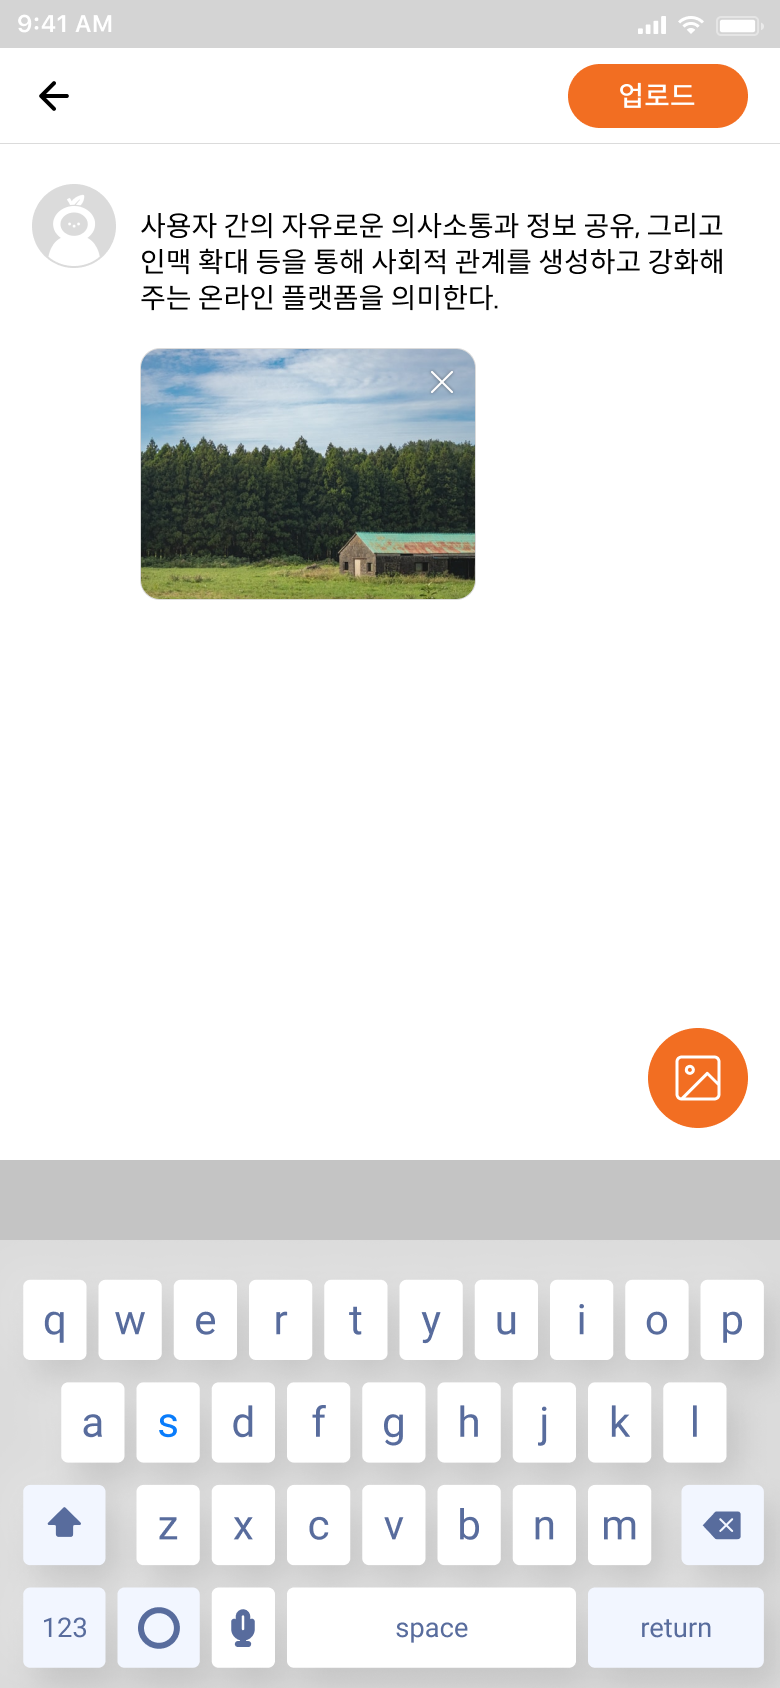
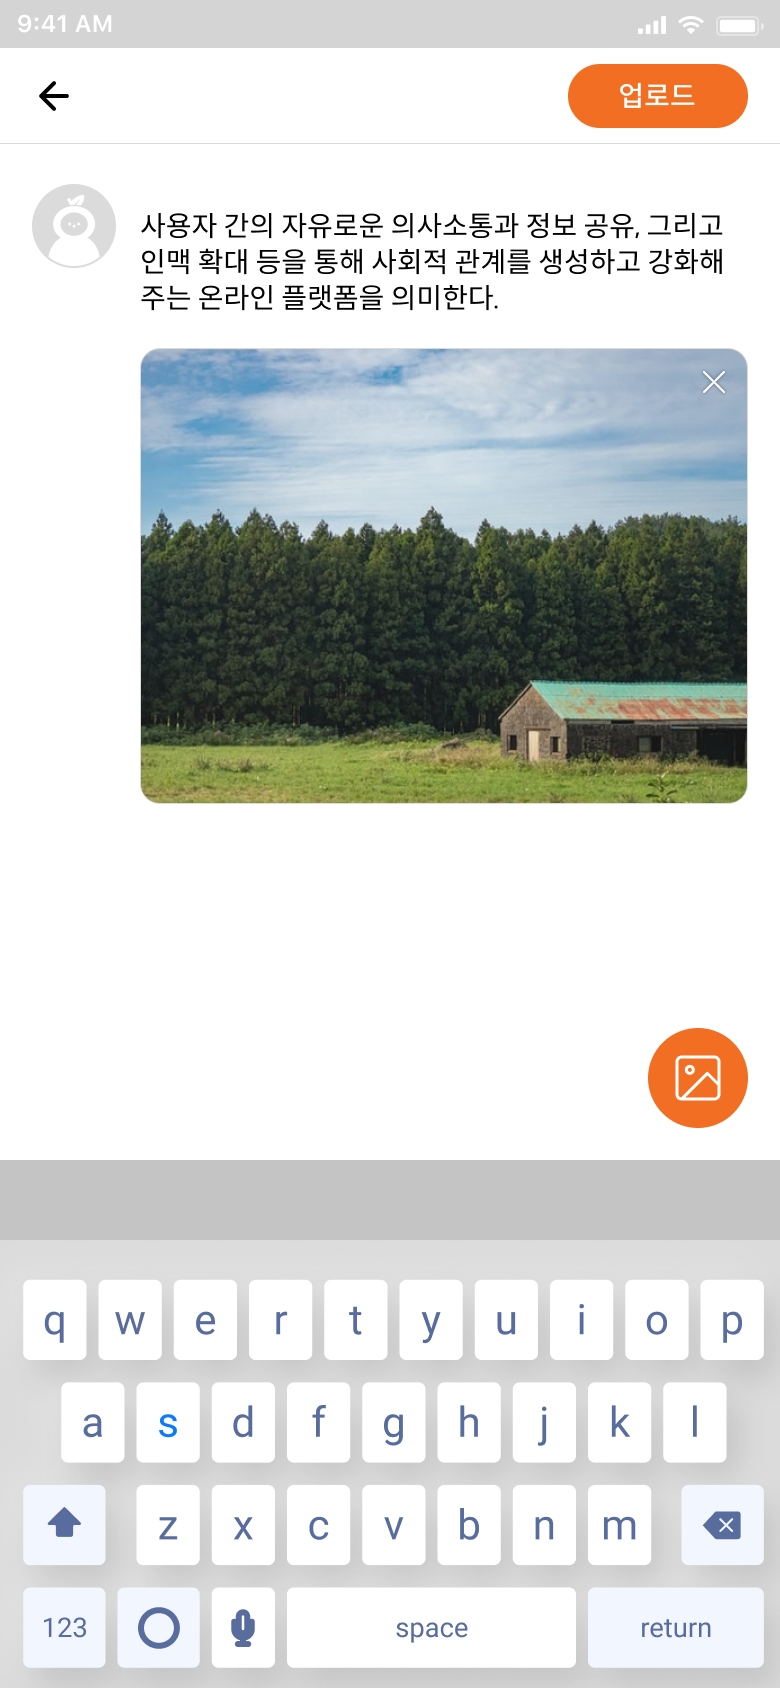
feat(post): 게시글 작성 페이지 style 및 (#13)
* 사진1장 업로드시 크게 보이도록 설정

* 게시글 텍스트 작성 크기를 유연하게 설정, 세로로 긴 게시글을 불러올 때 정상적으로 불러오도록 설정

* textarea에 맥스 높이 설정

* removeTarget state로 관리 사진 삭제 모달창 생성

* assets폴더 정리

Changed region(s): [[0.1538, 0.1848, 0.9846, 0.4929]]

diff --git a/src/pages/PostCreate/PostCreate.jsx b/src/pages/PostCreate/PostCreate.jsx
@@ -6,11 +6,14 @@ import { uploadImage } from '../../api/auth';
 import { useAuth } from '../../context/AuthContext';
 import { getImageUrl, DEFAULT_PROFILE_IMAGE } from '../../utils/format';
 import { useEffect } from 'react';
+import ImageUploadIcon from '../../assets/images/image_upload.svg';
+import AlertModal from '../../components/common/AlertModal';
 
 const Wrapper = styled.div`
   min-height: 100vh;
   background-color: ${({ theme }) => theme.colors.white};
   padding-bottom: 80px;
+  overflow-x: hidden;
 `;
 
 const PostHeader = styled.header`
@@ -35,14 +38,16 @@ const BackButton = styled.button`
 `;
 
 const UploadButton = styled.button`
-  background-color: ${({ disabled, theme }) => disabled ? theme.colors.gray200 : theme.colors.primary};
+  background-color: ${({ disabled, theme }) => (disabled ? theme.colors.gray200 : theme.colors.primary)};
   color: ${({ theme }) => theme.colors.white};
   font-size: ${({ theme }) => theme.fonts.size.sm};
   font-weight: ${({ theme }) => theme.fonts.weight.medium};
   padding: 6px 16px;
   border-radius: ${({ theme }) => theme.borderRadius.round};
   transition: ${({ theme }) => theme.transitions.base};
-  &:disabled { pointer-events: none; }
+  &:disabled {
+    pointer-events: none;
+  }
 `;
 
 const Content = styled.div`
@@ -62,30 +67,40 @@ const AuthorAvatar = styled.img`
 
 const TextArea = styled.textarea`
   flex: 1;
-  min-height: 120px;
+  margin-top: 12px;
   font-size: ${({ theme }) => theme.fonts.size.base};
   color: ${({ theme }) => theme.colors.black};
   resize: none;
   line-height: 1.6;
   border: none;
   outline: none;
+  max-height: 40vh;
+  overflow-y: auto;
 
-  &::placeholder { color: ${({ theme }) => theme.colors.gray300}; }
+  &::placeholder {
+    color: ${({ theme }) => theme.colors.gray300};
+  }
 `;
 
 const ImagePreviews = styled.div`
   display: flex;
+  flex-wrap: nowrap;
   gap: 8px;
-  padding: 0 16px 16px 68px;
+  padding: 0 16px 16px 60px;
   overflow-x: auto;
-  &::-webkit-scrollbar { display: none; }
+  -webkit-overflow-scrolling: touch;
+  width: 100%;
+  box-sizing: border-box;
+  &::-webkit-scrollbar {
+    display: none;
+  }
 `;
 
 const ImagePreviewItem = styled.div`
   position: relative;
   flex-shrink: 0;
-  width: 100px;
-  height: 100px;
+  width: 300px;
+  height: 200px;
 `;
 
 const PreviewImage = styled.img`
@@ -127,14 +142,7 @@ const FloatingCameraBtn = styled.button`
 
 const BackIcon = () => (
   <svg width="24" height="24" viewBox="0 0 24 24" fill="none">
-    <path d="M15 18L9 12L15 6" stroke="#767676" strokeWidth="2" strokeLinecap="round" strokeLinejoin="round"/>
-  </svg>
-);
-
-const CameraIcon = () => (
-  <svg width="22" height="22" viewBox="0 0 24 24" fill="none">
-    <path d="M23 19C23 19.5304 22.7893 20.0391 22.4142 20.4142C22.0391 20.7893 21.5304 21 21 21H3C2.46957 21 1.96086 20.7893 1.58579 20.4142C1.21071 20.0391 1 19.5304 1 19V8C1 7.46957 1.21071 6.96086 1.58579 6.58579C1.96086 6.21071 2.46957 6 3 6H7L9 3H15L17 6H21C21.5304 6 22.0391 6.21071 22.4142 6.58579C22.7893 6.96086 23 7.46957 23 8V19Z" stroke="white" strokeWidth="2" strokeLinecap="round" strokeLinejoin="round"/>
-    <circle cx="12" cy="13" r="4" stroke="white" strokeWidth="2"/>
+    <path d="M15 18L9 12L15 6" stroke="#767676" strokeWidth="2" strokeLinecap="round" strokeLinejoin="round" />
   </svg>
 );
 
@@ -145,10 +153,20 @@ const PostCreate = ({ isEdit = false }) => {
   const { postId } = useParams();
   const { user } = useAuth();
   const fileRef = useRef(null);
+  const textareaRef = useRef(null);
 
   const [content, setContent] = useState('');
   const [images, setImages] = useState([]);
   const [isLoading, setIsLoading] = useState(false);
+  const [removeTargetIndex, setRemoveTargetIndex] = useState(null);
+
+  useEffect(() => {
+    const el = textareaRef.current;
+    if (el) {
+      el.style.height = 'auto';
+      el.style.height = `${el.scrollHeight}px`;
+    }
+  }, [content]);
 
   useEffect(() => {
     if (isEdit && postId) {
@@ -158,11 +176,14 @@ const PostCreate = ({ isEdit = false }) => {
           const post = data.post;
           setContent(post.content);
           if (post.image) {
-            const imgUrls = post.image.split(',').filter(Boolean).map((img) => ({
-              url: getImageUrl(img.trim()),
-              rawUrl: img.trim(),
-              isNew: false,
-            }));
+            const imgUrls = post.image
+              .split(',')
+              .filter(Boolean)
+              .map((img) => ({
+                url: getImageUrl(img.trim()),
+                rawUrl: img.trim(),
+                isNew: false,
+              }));
             setImages(imgUrls);
           }
         } catch (err) {
@@ -175,6 +196,10 @@ const PostCreate = ({ isEdit = false }) => {
 
   const isActive = content.trim() || images.length > 0;
 
+  const handleContentChange = (e) => {
+    setContent(e.target.value);
+  };
+
   const handleImageChange = (e) => {
     const files = Array.from(e.target.files);
     const remaining = MAX_IMAGES - images.length;
@@ -183,10 +208,7 @@ const PostCreate = ({ isEdit = false }) => {
     validFiles.forEach((file) => {
       const reader = new FileReader();
       reader.onloadend = () => {
-        setImages((prev) => [
-          ...prev,
-          { url: reader.result, file, isNew: true },
-        ]);
+        setImages((prev) => [...prev, { url: reader.result, file, isNew: true }]);
       };
       reader.readAsDataURL(file);
     });
@@ -194,7 +216,12 @@ const PostCreate = ({ isEdit = false }) => {
   };
 
   const handleRemoveImage = (index) => {
-    setImages((prev) => prev.filter((_, i) => i !== index));
+    setRemoveTargetIndex(index);
+  };
+
+  const confirmRemoveImage = () => {
+    setImages((prev) => prev.filter((_, i) => i !== removeTargetIndex));
+    setRemoveTargetIndex(null);
   };
 
   const handleUpload = async () => {
@@ -206,6 +233,7 @@ const PostCreate = ({ isEdit = false }) => {
       for (const img of images) {
         if (img.isNew && img.file) {
           const data = await uploadImage(img.file);
+          console.log(data);
           imageUrls.push(data.filename);
         } else if (img.rawUrl) {
           imageUrls.push(img.rawUrl);
@@ -213,6 +241,7 @@ const PostCreate = ({ isEdit = false }) => {
       }
 
       const imageString = imageUrls.join(',');
+      console.log(imageUrls);
 
       if (isEdit) {
         await updatePost(postId, content, imageString);
@@ -243,11 +272,14 @@ const PostCreate = ({ isEdit = false }) => {
         <AuthorAvatar
           src={getImageUrl(user?.image)}
           alt={user?.username}
-          onError={(e) => { e.target.src = DEFAULT_PROFILE_IMAGE; }}
+          onError={(e) => {
+            e.target.src = DEFAULT_PROFILE_IMAGE;
+          }}
         />
         <TextArea
+          ref={textareaRef}
           value={content}
-          onChange={(e) => setContent(e.target.value)}
+          onChange={handleContentChange}
           placeholder="게시글을 작성해주세요..."
           autoFocus
         />
@@ -260,7 +292,9 @@ const PostCreate = ({ isEdit = false }) => {
               <PreviewImage
                 src={img.url}
                 alt={`이미지 ${i + 1}`}
-                onError={(e) => { e.target.style.display = 'none'; }}
+                onError={(e) => {
+                  e.target.style.display = 'none';
+                }}
               />
               <RemoveImageBtn onClick={() => handleRemoveImage(i)}>✕</RemoveImageBtn>
             </ImagePreviewItem>
@@ -279,9 +313,19 @@ const PostCreate = ({ isEdit = false }) => {
 
       {images.length < MAX_IMAGES && (
         <FloatingCameraBtn onClick={() => fileRef.current?.click()}>
-          <CameraIcon />
+          <img src={ImageUploadIcon} alt="이미지 업로드" width="28" height="28" />
         </FloatingCameraBtn>
       )}
+
+      <AlertModal
+        isOpen={removeTargetIndex !== null}
+        title="사진 삭제"
+        description="사진을 삭제하시겠습니까?"
+        confirmText="삭제"
+        onCancel={() => setRemoveTargetIndex(null)}
+        onConfirm={confirmRemoveImage}
+        danger
+      />
     </Wrapper>
   );
 };
